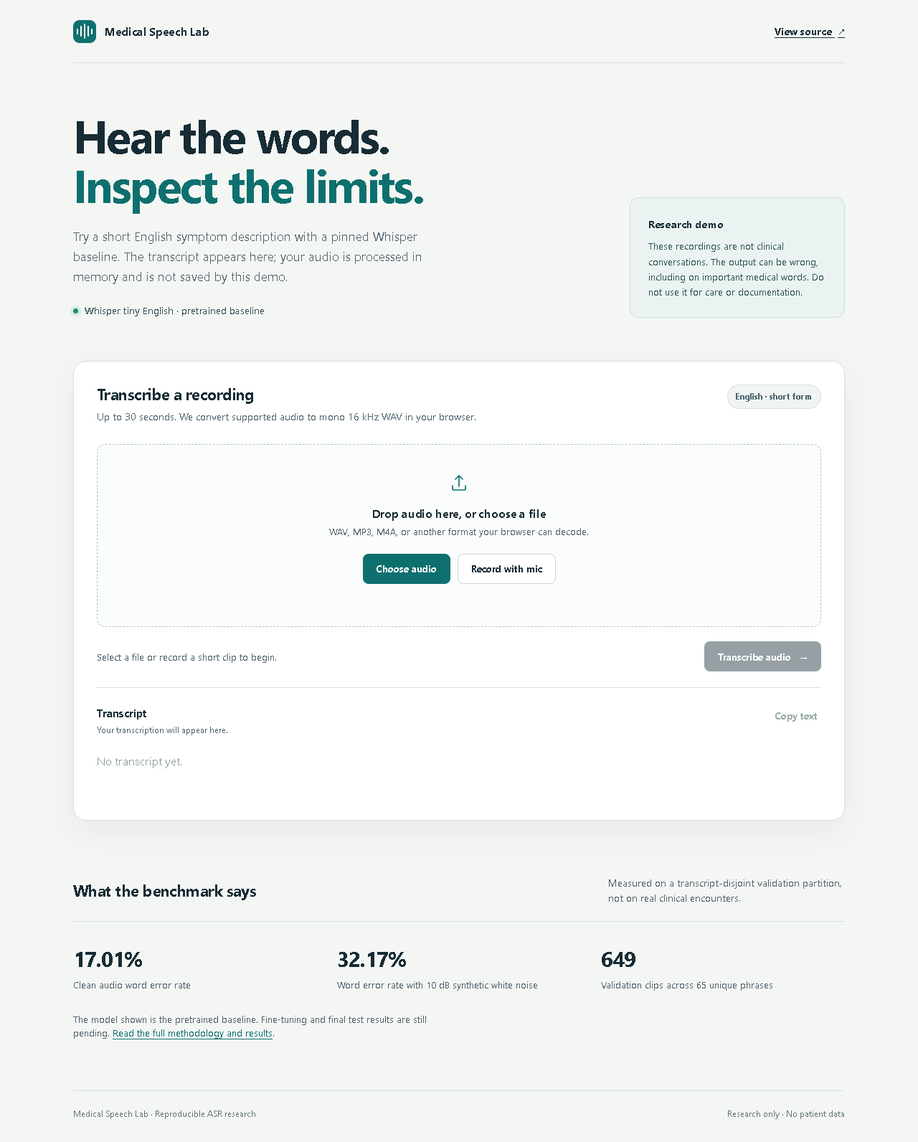
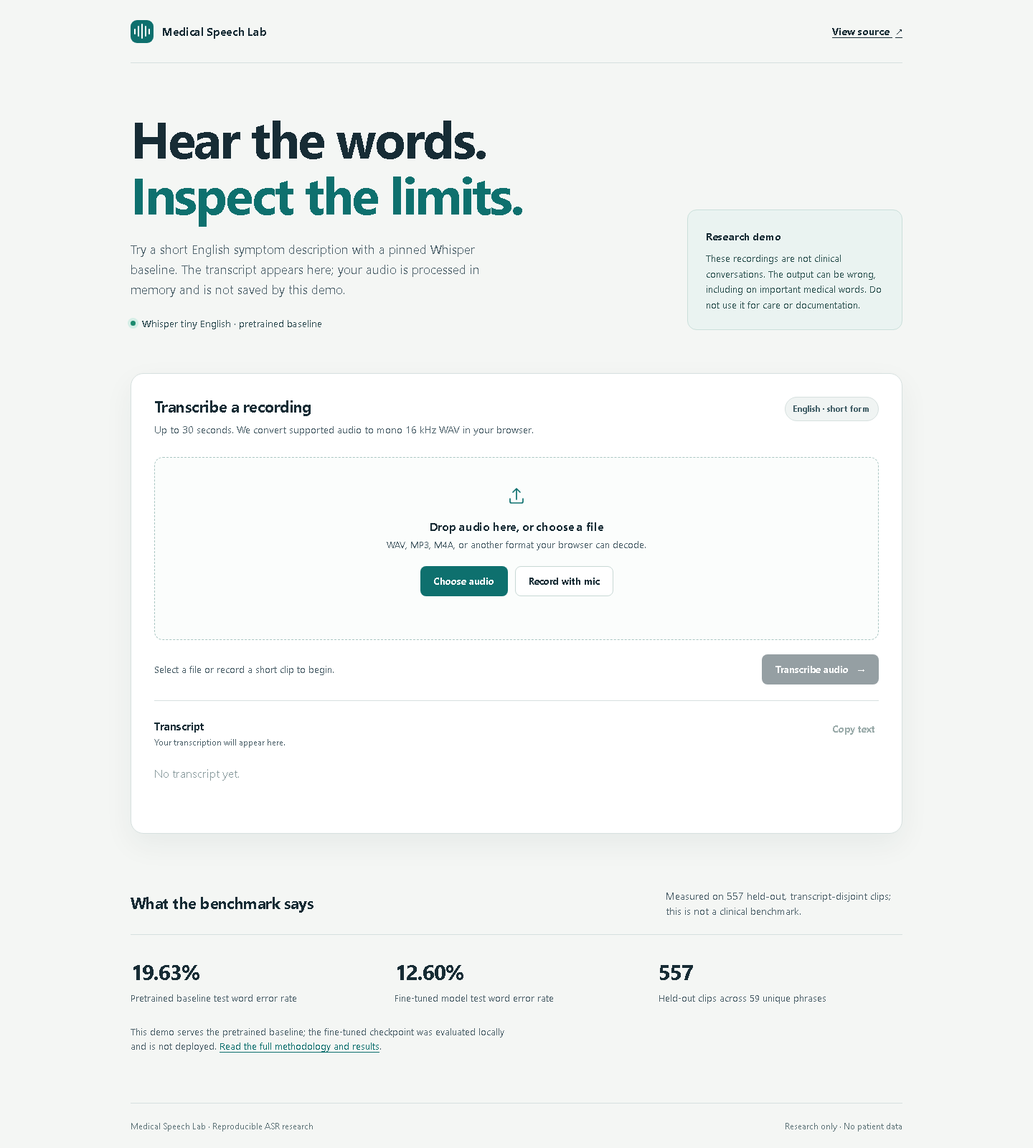
Publish frozen held-out speech benchmark and updated demo

diff --git a/web/index.html b/web/index.html
@@ -73,14 +73,14 @@
       <section class="evidence" aria-labelledby="evidence-title">
         <div class="evidence-heading">
           <h2 id="evidence-title">What the benchmark says</h2>
-          <p>Measured on a transcript-disjoint validation partition, not on real clinical encounters.</p>
+          <p>Measured on 557 held-out, transcript-disjoint clips; this is not a clinical benchmark.</p>
         </div>
         <div class="evidence-grid">
-          <div class="evidence-item"><span class="evidence-value">17.01%</span><span class="evidence-label">Clean audio word error rate</span></div>
-          <div class="evidence-item"><span class="evidence-value">32.17%</span><span class="evidence-label">Word error rate with 10 dB synthetic white noise</span></div>
-          <div class="evidence-item"><span class="evidence-value">649</span><span class="evidence-label">Validation clips across 65 unique phrases</span></div>
+          <div class="evidence-item"><span class="evidence-value">19.63%</span><span class="evidence-label">Pretrained baseline test word error rate</span></div>
+          <div class="evidence-item"><span class="evidence-value">12.60%</span><span class="evidence-label">Fine-tuned model test word error rate</span></div>
+          <div class="evidence-item"><span class="evidence-value">557</span><span class="evidence-label">Held-out clips across 59 unique phrases</span></div>
         </div>
-        <p class="evidence-foot">The model shown is the pretrained baseline. Fine-tuning and final test results are still pending. <a href="https://github.com/Stark2028/medical-speech-lab/blob/main/RESULTS.md" target="_blank" rel="noopener noreferrer">Read the full methodology and results</a>.</p>
+        <p class="evidence-foot">This demo serves the pretrained baseline; the fine-tuned checkpoint was evaluated locally and is not deployed. <a href="https://github.com/Stark2028/medical-speech-lab/blob/main/RESULTS.md" target="_blank" rel="noopener noreferrer">Read the full methodology and results</a>.</p>
       </section>
     </main>
 

diff --git a/RESULTS.md b/RESULTS.md
@@ -1,48 +1,58 @@
 # Results
 
-**Status (1 November 2026): validation baseline and synthetic-noise stress test complete. Full GPU fine-tuning and final test comparison remain pending.** These are exploratory validation results, not held-out test claims.
+**Status (1 November 2026):** full GPU fine-tuning, independent validation, and the one-time held-out test comparison are complete. [The final protocol was committed](docs/PROTOCOL_FREEZE.md) before either test evaluation.
+
+## Experimental record
 
 | Item | Recorded value |
 | --- | --- |
 | Dataset | `Hani89/medical_asr_recording_dataset` at `8b2b2bd4233140705f1f7bb48411b49cd188d89c` |
-| Baseline model | `openai/whisper-tiny.en` at `87c7102498dcde7456f24cfd30239ca606ed9063` |
-| Train / validation / test clips | 5,455 / 649 / 557 |
-| Train / validation / test unique normalized phrases | 577 / 65 / 59 |
-| Validation hardware | CPU; NVIDIA RTX 4050 available locally but CUDA PyTorch was not installed for these runs |
-| Software | Python 3.12.10; PyTorch 2.15.0 CPU; Transformers 4.50.3; Datasets 2.21.0; Jiwer 4.0.0 |
[1 lines of base64/hex data omitted]
-| Code commit | `5064084f26ec553d205b36175508de3e7347a411`; both validation evaluations recorded `code_dirty: false` |
+| Baseline | `openai/whisper-tiny.en` at `87c7102498dcde7456f24cfd30239ca606ed9063` |
+| Split | 5,455 train / 649 validation / 557 test clips; 577 / 65 / 59 unique normalized phrases |
[3 lines of base64/hex data omitted]
+| Training | RTX 4050 Laptop GPU (6 GB), PyTorch 2.12.0+cu130, 3 epochs, batch 2, accumulation 8, learning rate 1e-5, seed 42, 808.53 s |
+| Model selection | Lowest training-loop validation WER: epoch 1, 11.03%; independent saved-checkpoint validation WER: 11.06% |
+| Evaluation software | PyTorch 2.12.0; Transformers 4.50.3; Datasets 2.21.0; Jiwer 4.0.0 |
+| Evaluation commit | `0a9559b7d9f3ecc71cb786f321ae1c574954c42c`; both test metrics recorded `code_dirty: false` |
 
-See [data audit](docs/DATA_AUDIT.md) for measured channel, duration, and validity checks on train and validation audio. The original Kaggle audio redistribution terms remain unverified; no source audio, transcripts, predictions, or checkpoints are included in this repository.
+The independent validation and test runs used identical audio conversion, text normalization, metric code, and `max_new_tokens=128`. Each model retained its saved generation configuration. Term recall is an exact lexical match for the fixed list in [terms.txt](terms.txt), counting one occurrence per clip and term. It is **not** medical entity recognition or a clinical safety metric.
 
-## Validation benchmark
+## Held-out test: 557 clips, 59 transcript groups
 
-Both runs used the same 649 validation clips and fixed decoding (`max_new_tokens=128`). Metrics use the normalization in [methodology](docs/METHODOLOGY.md). Term recall counts one match per clip and term; it is a small lexical probe, not clinical entity recall.
-
-| Input / model | WER ↓ | CER ↓ | Symptom-term recall ↑ |
+| Model | Corpus WER ↓ | Corpus CER ↓ | Fixed symptom-term recall ↑ |
 | --- | ---: | ---: | ---: |
-| Clean / pretrained Whisper tiny English | 17.01% | 9.88% | 38/68 (55.88%) |
-| Seeded white Gaussian noise at 10 dB SNR / same model | 32.17% | 21.49% | 20/68 (29.41%) |
+| Pinned pretrained baseline | 19.63% | 11.23% | 32/46 (69.57%) |
+| Selected fine-tuned checkpoint | **12.60%** | **6.48%** | **41/46 (89.13%)** |
 
-The paired noisy-minus-clean WER difference is **+15.16 percentage points**; a 1,000-sample bootstrap resampling 65 normalized-transcript groups gave a **95% percentile interval of +12.54 to +17.94 points** (seed 42). This quantifies sensitivity to this artificial perturbation on validation. It does not measure performance in a clinic or under real background noise.
+The paired candidate-minus-baseline WER difference is **-7.03 percentage points**, a **35.8% relative WER reduction**. A 1,000-sample bootstrap resampling the 59 normalized-transcript groups (seed 42) gave a 95% percentile interval of **-10.22 to -4.40 percentage points**. The interval describes sampling uncertainty over phrase groups in this dataset; it does not correct for unknown speaker overlap, label issues, or the gap from prompted utterances to clinical audio. The term-recall difference is 9 additional exact matches among 46 reference occurrences; that small denominator warrants caution.
 
-## Reproduction
+## Validation and noise stress test
 
-With the pinned dataset and model available in the local Hugging Face cache, run:
+| Input / model | WER ↓ | CER ↓ | Fixed term recall ↑ |
+| --- | ---: | ---: | ---: |
+| Clean / pinned baseline, independent GPU run | 17.04% | 9.89% | 38/68 (55.88%) |
+| Clean / selected fine-tuned checkpoint | 11.06% | 6.15% | 57/68 (83.82%) |
+| 10 dB seeded white Gaussian noise / pinned baseline, earlier CPU run | 32.17% | 21.49% | 20/68 (29.41%) |
 
-```powershell
+On clean validation, the paired candidate-minus-baseline WER difference is **-5.98 percentage points**, with a 95% phrase-group bootstrap interval of **-7.72 to -4.45 points** (65 groups, 1,000 samples, seed 42). The earlier CPU clean baseline was 17.01% WER and 9.88% CER, so the GPU clean run differs slightly by execution environment. The noise result is paired with that earlier CPU clean run: noisy-minus-clean WER **+15.16 points**, 95% interval **+12.54 to +17.94 points**. White noise at a fixed SNR is an artificial perturbation, not real clinical noise.
+
+## Reproduce
+
+Install dependencies as in [README.md](README.md), or use the tested [WSL GPU setup](scripts/setup_wsl_gpu.sh). Use new output paths for reruns. The pinned dataset/model must be accessible through the Hub or local cache. The complete pipeline is:
+
+```text
 python -m medspeech.prepare --out runs/split_manifest.json
-python -m medspeech.evaluate --manifest runs/split_manifest.json --split validation --model openai/whisper-tiny.en --revision 87c7102498dcde7456f24cfd30239ca606ed9063 --out runs/baseline_validation_clean_commit
-python -m medspeech.evaluate --manifest runs/split_manifest.json --split validation --model openai/whisper-tiny.en --revision 87c7102498dcde7456f24cfd30239ca606ed9063 --snr-db 10 --noise-seed 42 --out runs/baseline_validation_10db_clean_commit
-python -m medspeech.compare --baseline runs/baseline_validation_clean_commit/predictions.jsonl --candidate runs/baseline_validation_10db_clean_commit/predictions.jsonl --samples 1000 --seed 42 --out runs/clean_vs_10db_validation_clean_commit.json
+python -m medspeech.train --manifest runs/split_manifest.json --out checkpoints/whisper_tiny_full --epochs 3 --batch-size 2 --gradient-accumulation 8 --learning-rate 1e-5 --seed 42
+python -m medspeech.evaluate --manifest runs/split_manifest.json --split validation --model checkpoints/whisper_tiny_full/best_model --out runs/finetuned_validation
+python -m medspeech.evaluate --manifest runs/split_manifest.json --split test --final-test --model openai/whisper-tiny.en --revision 87c7102498dcde7456f24cfd30239ca606ed9063 --out runs/baseline_test
+python -m medspeech.evaluate --manifest runs/split_manifest.json --split test --final-test --model checkpoints/whisper_tiny_full/best_model --out runs/finetuned_test
+python -m medspeech.compare --baseline runs/baseline_test/predictions.jsonl --candidate runs/finetuned_test/predictions.jsonl --samples 1000 --seed 42 --out runs/final_comparison.json
 ```
 
-Each evaluation directory is ignored by Git and contains `predictions.jsonl` and `metrics.json`. `metrics.json` records model and dataset revisions, software versions, hardware, elapsed time, noise settings, term-list hash, commit, and whether the worktree was dirty.
+The actual run outputs, raw predictions, and weights are ignored by Git. Each evaluation directory contains `predictions.jsonl` and `metrics.json`; the latter records revisions, manifest/checkpoint hashes, versions, hardware, term-list hash, code commit, and worktree state. The full commands, parameter freeze, and selected checkpoint are in [PROTOCOL_FREEZE.md](docs/PROTOCOL_FREEZE.md).
 
-## Remaining experiment
+## Limits
 
-The CPU smoke train used four training clips and two validation clips for one epoch, and its saved checkpoint reloaded for inference. Those scores are not meaningful. Full training needs a CUDA-enabled PyTorch installation and a measured GPU run. After selecting the checkpoint and freezing settings on validation, score the pretrained and fine-tuned models once on the untouched 557-clip test partition. Until then, there is **no evidence that domain fine-tuning improves this dataset**.
-
-## Error review
-
-The clean validation predictions include missed symptom terms and occasional fluent but unrelated output on short clips. Example categories include confusion between breathing and ordinary phrases and generic phrases emitted in place of symptom descriptions. These observations come from validation predictions only; reference quality and audio intelligibility need human review before attributing every mismatch to the model.
+The dataset consists of short prompted English symptom phrases, not physician dictation or patient conversations. Speaker IDs are absent; transcript-disjoint splitting does not establish speaker independence. Some validation errors included missed symptom terms and fluent but unrelated text, and the test aggregate still contains errors. Human audio/reference review was not completed, so model mismatches cannot all be attributed to recognition. The original source-audio redistribution rights remain unverified; no audio, transcripts, predictions, or model weights are published. These findings do not establish clinical readiness, multilingual ASR, or patient safety. See [data provenance](docs/DATA_PROVENANCE.md).

diff --git a/README.md b/README.md
@@ -1,26 +1,26 @@
 # Medical Speech Lab
 
-**A reproducible English medical-symptom ASR study with a bounded live inference demo.** The repository evaluates a pinned Whisper tiny baseline on transcript-disjoint data, tests sensitivity to synthetic noise, and provides a complete path to fine-tuning and final held-out evaluation. The web app accepts short recordings and displays the baseline transcript without storing uploads.
+**A reproducible English medical-symptom ASR study with a bounded inference demo.** The repository fine-tunes a pinned Whisper tiny model, compares it with the pretrained baseline on a frozen transcript-disjoint test set, and measures sensitivity to synthetic noise. The web app accepts short recordings and displays the baseline transcript without storing uploads.
 
-> **Research status — 1 November 2026:** baseline and noise experiments are measured on validation. The full GPU fine-tuning run and final test comparison are pending. The deployed demo, if enabled, serves the **pretrained baseline**, not a clinically validated model.
+> **Research status — 1 November 2026:** full GPU training and the one-time held-out test comparison are complete. The demo, if deployed, serves the **pretrained baseline**; fine-tuned weights remain local. Neither model is clinically validated.
 
 ![Medical Speech Lab demo with audio upload, transcript panel, and measured validation results](docs/demo-desktop.png)
 
-## Measured validation results
+## Held-out test results
 
-The [pinned public dataset mirror](https://huggingface.co/datasets/Hani89/medical_asr_recording_dataset) contains 6,661 short English symptom utterances. We repartitioned all source clips by normalized transcript hash so the same phrase never crosses train, validation, and test. The 649-clip validation partition has 65 unique normalized phrases; 557 test clips remain untouched.
+The [pinned public dataset mirror](https://huggingface.co/datasets/Hani89/medical_asr_recording_dataset) contains 6,661 short English symptom utterances. We repartitioned all source clips by normalized transcript hash so the same phrase never crosses train, validation, and test. The checkpoint was selected on 649 validation clips; the frozen protocol was committed before either model was scored on the 557-clip test partition.
 
-| Input to pinned `openai/whisper-tiny.en` | WER ↓ | CER ↓ | Fixed symptom-term recall ↑ |
+| Model on 557 test clips | WER ↓ | CER ↓ | Fixed symptom-term recall ↑ |
 | --- | ---: | ---: | ---: |
-| Clean validation audio | **17.01%** | 9.88% | 38/68 (55.88%) |
-| Same clips + seeded 10 dB white Gaussian noise | 32.17% | 21.49% | 20/68 (29.41%) |
+| Pretrained Whisper tiny English | 19.63% | 11.23% | 32/46 (69.57%) |
+| Fine-tuned checkpoint | **12.60%** | **6.48%** | **41/46 (89.13%)** |
 
-The paired WER increase is **15.16 percentage points**; transcript-group bootstrap (65 groups, 1,000 samples, seed 42) gives a 95% percentile interval of **12.54–17.94 points**. This is an artificial-noise sensitivity check, not a clinical-noise benchmark. Both evaluations reproduced from clean commit `5064084`; exact revisions, software versions, commands, and limitations are in [RESULTS.md](RESULTS.md).
+The paired WER reduction is **7.03 percentage points**; transcript-group bootstrap (59 groups, 1,000 samples, seed 42) gives a 95% percentile interval of **4.40–10.22 points**. The dataset contains short prompted phrases and no speaker IDs, so these results do not establish performance on clinical dictation or unseen speakers. Training settings, validation and noise results, exact revisions, and limitations are in [RESULTS.md](RESULTS.md).
 
 ## What is built
 
 - **Research pipeline:** pinned dataset/model revisions; transcript-disjoint split; stereo-to-mono conversion; train/validation audio audit; Whisper fine-tuning; corpus WER/CER; exact lexical symptom-term recall; paired, phrase-group bootstrap; deterministic noise stress test.
-- **Inference service:** FastAPI with one loaded model per process, one in-flight inference, bounded WAV streaming, duration and sample validation, 16 kHz resampling, readiness and liveness checks, and explicit research-only metadata.
+- **Inference service:** FastAPI with one loaded model per process, one in-flight inference, per-IP request limit, bounded WAV streaming, duration and sample validation, 16 kHz resampling, readiness and liveness checks, and explicit research-only metadata.
 - **Web demo:** responsive upload and microphone flow, in-browser WAV conversion, transcript review/copy, clear loading/error states, and measured benchmark context. The UI never sends audio to another origin.
 - **Deployment:** Docker image with the pinned public baseline baked in; Caddy HTTPS, request-size limit, and a dedicated AWS CloudFormation stack with Systems Manager access and no SSH port.
 
@@ -32,7 +32,7 @@ flowchart LR
     D --> E[Pinned Whisper baseline]
     E -->|Transcript only| A
     F[Pinned public dataset] --> G[Transcript-disjoint manifest]
-    G --> H[Train / validation / untouched test]
+    G --> H[Train / validation / held-out test]
     H --> I[Evaluation and grouped bootstrap]
 ```
 
@@ -59,7 +59,7 @@ curl -X POST http://127.0.0.1:8000/api/v1/transcribe \
   --data-binary @short_recording.wav
 ```
 
-The endpoint accepts a raw WAV body up to 8 MB, 30 seconds, one or two channels, and 8–48 kHz. It returns a transcript, clip duration, processing time, model identifier, and research-only flag. Invalid input returns 413/415/422; simultaneous work may receive 429. The service does not write audio or transcripts to disk or application logs. It is a low-traffic research demo without authentication or an SLA; **do not upload patient information**.
+The endpoint accepts a raw WAV body up to 8 MB, 30 seconds, one or two channels, and 8–48 kHz. It returns a transcript, clip duration, processing time, model identifier/revision, and research-only flag. Invalid input returns 413/415/422; concurrent work or more than 12 requests per IP per minute may receive 429. The service does not write audio or transcripts to disk or application logs. It is a low-traffic research demo without authentication or an SLA; **do not upload patient information**.
 
 ## Reproduce the study
 
@@ -78,14 +78,14 @@ Choose new output paths if those directories already exist. Outputs, transcripts
 
 ### Fine-tuning and final comparison
 
-The training code passed a four-train/two-validation CPU smoke run and checkpoint reload. That is **not** evidence of model improvement. With CUDA PyTorch installed and `torch.cuda.is_available()` returning `True`, use a fresh output directory:
+The full run trained on 5,455 clips for three epochs on an RTX 4050 Laptop GPU (6 GB); epoch 1 gave the lowest training-loop validation WER. The saved checkpoint was independently evaluated on validation before the [protocol freeze](docs/PROTOCOL_FREEZE.md). To reproduce, install CUDA PyTorch, confirm `torch.cuda.is_available()`, and use a fresh output directory. The tested WSL setup is in [GPU setup](scripts/setup_wsl_gpu.sh).
 
 ```powershell
 python -m medspeech.train --manifest runs/split_manifest.json --out checkpoints/whisper_tiny_full --epochs 3 --batch-size 2 --gradient-accumulation 8
 python -m medspeech.evaluate --manifest runs/split_manifest.json --split validation --model checkpoints/whisper_tiny_full/best_model --out runs/finetuned_validation
 ```
 
-Select the checkpoint and freeze all preprocessing, decoding, and term choices using validation only. The final test command intentionally requires `--final-test` and disallows a row limit:
+The final test command intentionally requires `--final-test` and disallows a row limit:
 
 ```powershell
 python -m medspeech.evaluate --manifest runs/split_manifest.json --split test --final-test --model openai/whisper-tiny.en --revision 87c7102498dcde7456f24cfd30239ca606ed9063 --out runs/baseline_test
@@ -93,7 +93,7 @@ python -m medspeech.evaluate --manifest runs/split_manifest.json --split test --
 python -m medspeech.compare --baseline runs/baseline_test/predictions.jsonl --candidate runs/finetuned_test/predictions.jsonl --out runs/final_comparison.json
 ```
 
-Do not claim a test improvement until these full runs are complete. If settings change after viewing test results, treat the test as exploratory and obtain a fresh holdout for a confirmatory claim.
+If settings change after viewing test results, treat this test as exploratory and obtain a fresh holdout for a confirmatory claim. The published aggregate metrics come from clean commit `0a9559b`; raw predictions and weights are kept out of Git.
 
 ## Deploy
 
@@ -109,7 +109,7 @@ See [deployment instructions](docs/DEPLOYMENT.md) for Docker Compose, AWS CloudF
 | `deploy/` | Caddy, Compose, and AWS infrastructure |
 | `docs/METHODOLOGY.md` | Experimental design and claims boundary |
 | `docs/DATA_PROVENANCE.md` | Source attribution and redistribution limits |
-| `RESULTS.md` | Measured metrics and remaining experiment |
+| `RESULTS.md` | Measured validation, robustness, and held-out test metrics |
 | `terms.txt` | Fixed lexical symptom terms used in the benchmark |
 
 ## Limits and responsible use

diff --git a/docs/IMPLEMENTATION_PLAN.md b/docs/IMPLEMENTATION_PLAN.md
@@ -2,7 +2,7 @@
 
 ## Objective
 
-Answer whether fine-tuning Whisper tiny English on short medical-symptom speech improves transcription of unseen phrases. Report both overall ASR quality and exact symptom-term recall, with honest limitations. The validation baseline is measured; the fine-tuned and final test comparison is still outstanding.
+Answer whether fine-tuning Whisper tiny English on short medical-symptom speech improves transcription of unseen phrases. Report overall ASR quality and exact symptom-term recall, with honest limitations. The completed held-out comparison is in [RESULTS.md](../RESULTS.md).
 
 ## Milestones and acceptance checks
 
@@ -11,20 +11,18 @@ Answer whether fine-tuning Whisper tiny English on short medical-symptom speech 
 | 1. Data audit | Download pinned dataset revision; inspect columns, durations, near-full-scale peaks, empty audio, transcript labels, and original source terms. | Save counts and a review log; confirm redistribution terms before releasing any derived data. | Train/validation technical audit complete; original source rights and human label review pending |
 | 2. Split protocol | Make deterministic transcript-disjoint train/validation/test manifest. | No normalized phrase crosses partitions; record clip and unique-phrase counts; freeze manifest. | Completed on 6,661 clips; see `DATA_AUDIT.md` |
 | 3. Baseline | Run pretrained Whisper tiny English on validation. | Save full predictions, normalized WER/CER, term support/recall, hardware, model SHA, dataset SHA, code commit. | Full 649-clip validation run reproduced from clean commit `5064084` |
-| 4. Fine-tuning | Run a short smoke train, then full training on train only; select by validation WER. | No test data is read; checkpoint loads for inference; memory fits 6 GB or batch settings are adjusted and logged. | Four-train/two-validation CPU smoke and checkpoint reload complete; full CUDA run pending |
-| 5. Final comparison | Freeze model, term list, normalization, and exclusions; score both checkpoints on full test once. | Same test rows, decoding settings, and metric code; report absolute and relative changes with sample counts. | Pending |
+| 4. Fine-tuning | Run a short smoke train, then full training on train only; select by validation WER. | No test data is read; checkpoint loads for inference; memory fits 6 GB or batch settings are adjusted and logged. | Completed on 5,455 train clips, RTX 4050 GPU; epoch 1 checkpoint selected |
+| 5. Final comparison | Freeze model, term list, normalization, and exclusions; score both checkpoints on full test once. | Same test rows, decoding settings, and metric code; report absolute and relative changes with sample counts. | Completed on 557 clips after [protocol freeze](PROTOCOL_FREEZE.md); 19.63% to 12.60% WER |
 | 6. Robustness | Add reproducible white noise at fixed SNRs to audio without changing text; compare paired clean/noisy results. | Seeded transformations, documented noise method, and matched clips. Treat validation stress tests as exploratory; reserve final test until model selection. | Full 649-clip 10 dB validation stress test reproduced from clean commit `5064084` |
-| 7. Uncertainty and errors | Compare paired predictions with transcript-group bootstrap intervals; audit errors by term and audio quality. | Report intervals, number of unique phrases, examples, and failures; distinguish exploratory from confirmatory analyses. | 1,000-sample grouped bootstrap reproduced; human audio/label error review pending |
-| 8. Public release | Review README, RESULTS, attribution, dependency versions, CI, and ignored files. | `git status` contains no audio, checkpoints, tokens, or private data; a new machine can follow setup. | Local Git repository and documentation ready for review; no remote configured |
+| 7. Uncertainty and errors | Compare paired predictions with transcript-group bootstrap intervals; audit errors by term and audio quality. | Report intervals, number of unique phrases, examples, and failures; distinguish exploratory from confirmatory analyses. | 1,000-sample grouped test bootstrap completed; human audio/label review remains open |
+| 8. Public release | Review README, RESULTS, attribution, dependency versions, CI, and ignored files. | `git status` contains no audio, checkpoints, tokens, or private data; a new machine can follow setup. | Public GitHub repo created; code and aggregate report ready for CI and deployment verification |
 
-## Recommended execution order
+## Remaining research work
 
 1. Review original Kaggle/Figure Eight redistribution terms and manually sample train/validation audio and labels. Keep source data out of Git.
-2. Install a CUDA-enabled PyTorch build using the official selector, verify `torch.cuda.is_available()`, then run a GPU memory smoke train.
-3. Fine-tune on the complete train partition. Tune only on validation; record each change and checkpoint decision.
-4. Freeze checkpoint, decoding, normalization, term list, and exclusions. Score both checkpoints on the full test once; report paired metrics and grouped uncertainty.
-5. Review any failure modes and publish code plus aggregate results. Do not silently mix exploratory validation stress tests into the final test claim.
+2. Obtain a speaker-identified, independently collected evaluation set before claiming generalization to unseen speakers or clinical conversations.
+3. Validate the service with non-sensitive public audio under realistic traffic and monitor latency, memory, and failure rates before increasing exposure.
 
 ## Resume gate
 
-Only after completed runs: describe the dataset, model, exact change in WER or term recall, and reproducibility work. If fine-tuning does not improve the baseline, report that honestly and explain the error analysis. Do not claim clinical deployment or patient safety.
+The completed run supports a resume claim of fine-tuning Whisper tiny on 5,455 training utterances and reducing held-out WER from 19.63% to 12.60% on 557 prompted clips, with a transcript-disjoint protocol and paired uncertainty estimate. Do not claim clinical deployment or patient safety.

diff --git a/docs/DEPLOYMENT.md b/docs/DEPLOYMENT.md
@@ -12,7 +12,7 @@ python -m pip install -r requirements-api.txt
 uvicorn medspeech.service:app --host 127.0.0.1 --port 8000
 ```
 
-Open <http://127.0.0.1:8000>. `/health/ready` is healthy only after the model loads. The same-origin API accepts a raw WAV request body at `POST /api/v1/transcribe` with `Content-Type: audio/wav`; it returns JSON. Uploaded files are limited to 8 MB and 30 seconds; the model handles one request at a time and returns HTTP 429 when busy.
+Open <http://127.0.0.1:8000>. `/health/ready` is healthy only after the model loads. The same-origin API accepts a raw WAV request body at `POST /api/v1/transcribe` with `Content-Type: audio/wav`; it returns JSON. Uploaded files are limited to 8 MB and 30 seconds; the model handles one request at a time. Concurrent requests and requests beyond 12 per IP per minute return HTTP 429. The in-process limiter assumes one API worker and Caddy as the sole public entry point.
 
 ## Docker Compose
 
@@ -57,4 +57,4 @@ aws cloudformation delete-stack --region ap-south-1 --stack-name medical-speech-
 
 ## Operational scope
 
-The live demo is intended for low traffic and public, non-sensitive recordings. It has process-level concurrency control and no queue, account system, audit logs, data retention, SLA, or clinical validation. Do not submit patient information. Clinical deployment would require a separate privacy, security, quality, and regulatory review.
+The live demo is intended for low traffic and public, non-sensitive recordings. It has process-level concurrency control and a per-IP rate limit, with no queue, account system, audit logs, data retention, SLA, or clinical validation. Do not submit patient information. Clinical deployment would require a separate privacy, security, quality, and regulatory review.
